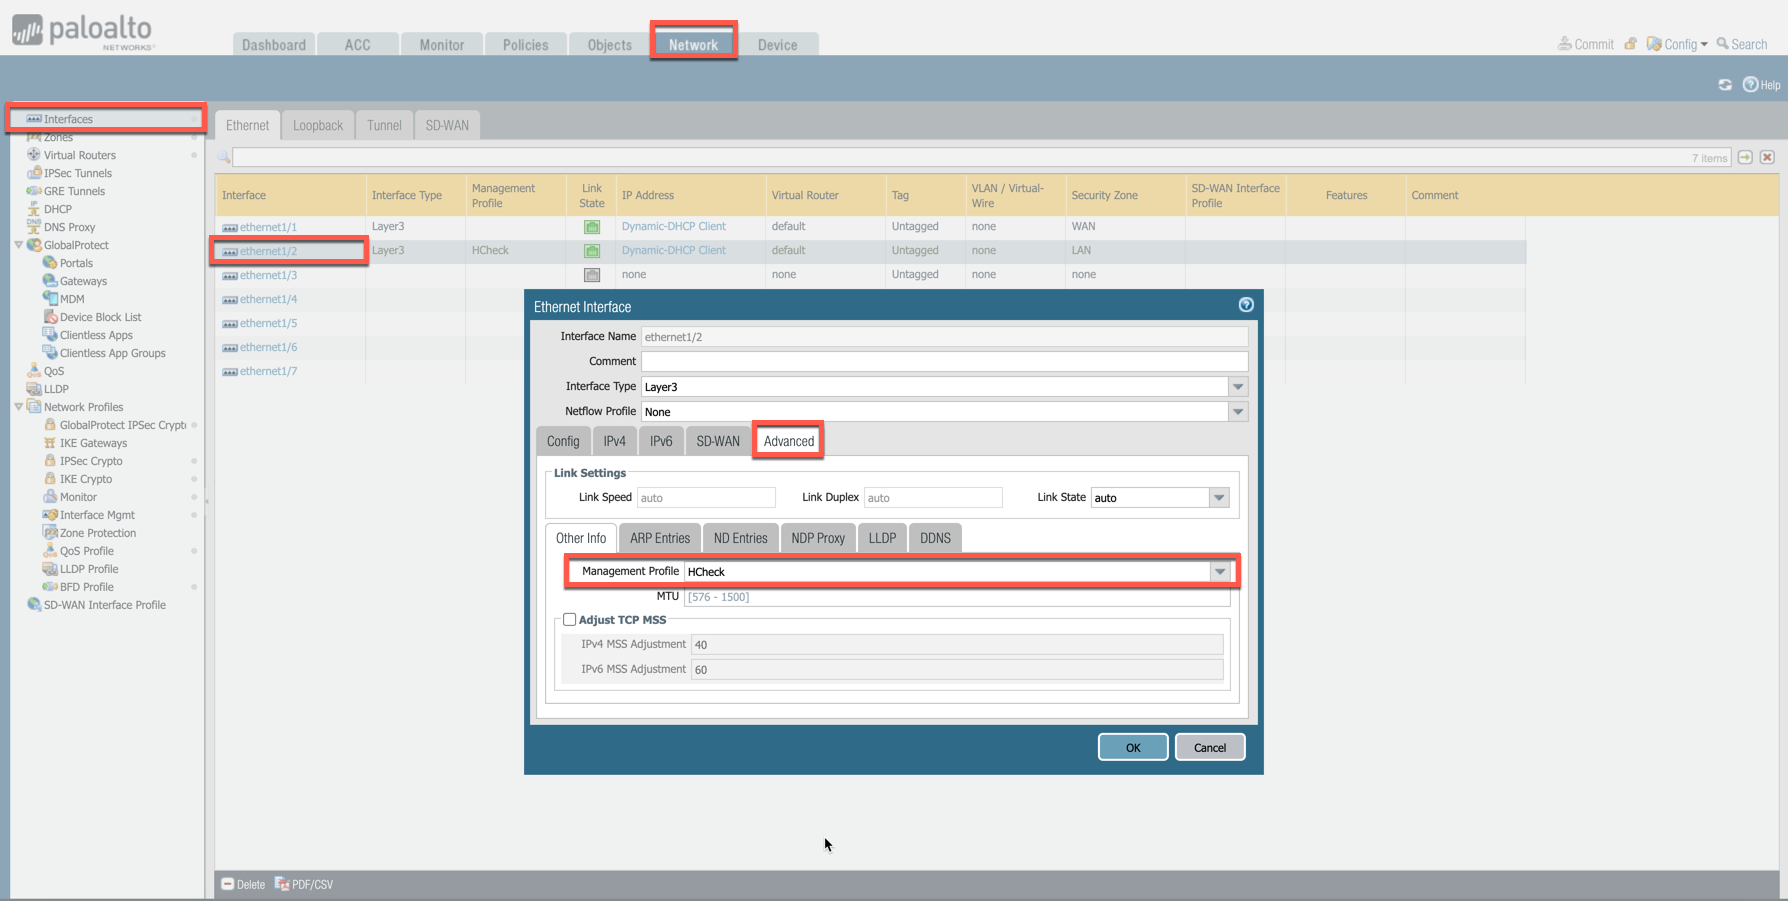
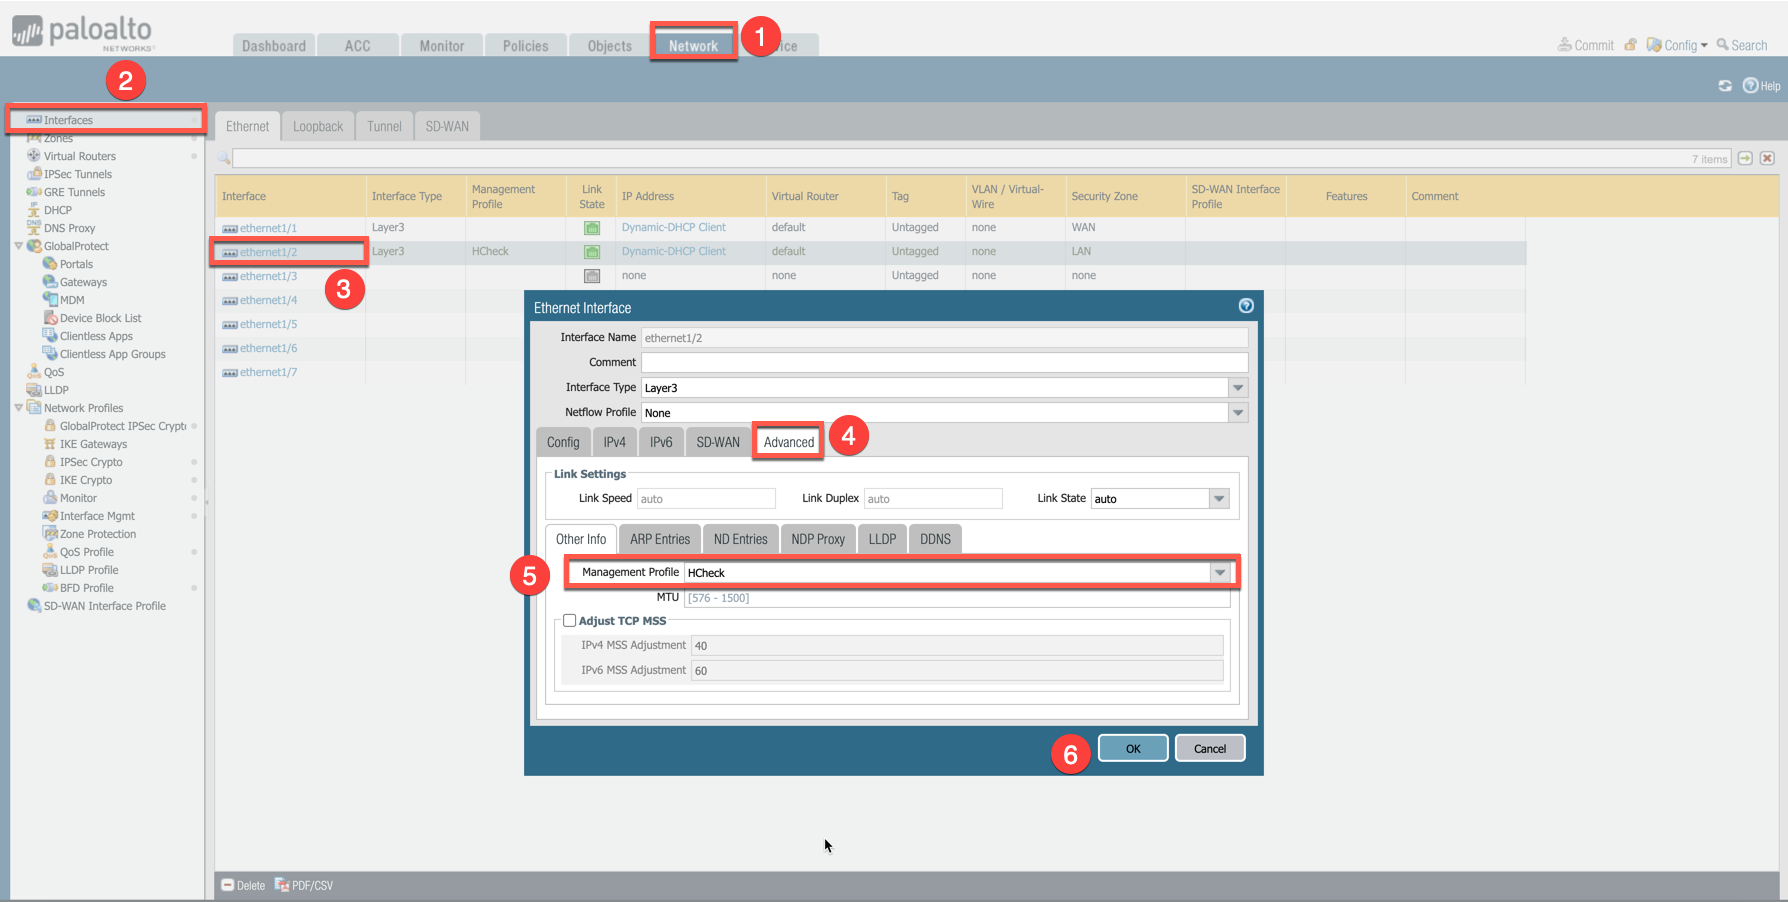
Updated PAN Health Check Missing Image

diff --git a/HowTos/transit_firenet_workflow_azure.rst b/HowTos/transit_firenet_workflow_azure.rst
@@ -277,8 +277,13 @@ By default, VM-Series do not allow HTTPS or TCP 443 port. Pleas follow the given
     1. Login to VM-Series with username and password.
     #. Go to Network -> Interface Mgmt under Network Profiles and click "Add".
     #. Give any name in "Interface Management Profile", check HTTPS checkbox under Administrative Management Service and click "OK".
+    #. Attach Profile with LAN interface. Network -> Interfaces -> Select LAN Ethernet Interface -> Advanced -> Management Profile -> Select appropiate profile.
 
 |PAN-health-check|
+
+See an example screenshot below how to attach profile to an interface.
+
+|pan_hcheck_attach|
 
 Firewall health check probes can be verified in Monitor -> Traffic.
 
@@ -394,5 +399,9 @@ There are multiple ways to check data-plane:
 
 .. |pan-health-probe| image:: transit_firenet_workflow_media/transit_firenet_Azure_workflow_media/pan-health-probe.png
    :scale: 40%
+
+.. |pan_hcheck_attach| image:: transit_firenet_workflow_media/transit_firenet_Azure_workflow_media/pan_hcheck_attach.png
+   :scale: 40%
+
 
 .. disqus::
